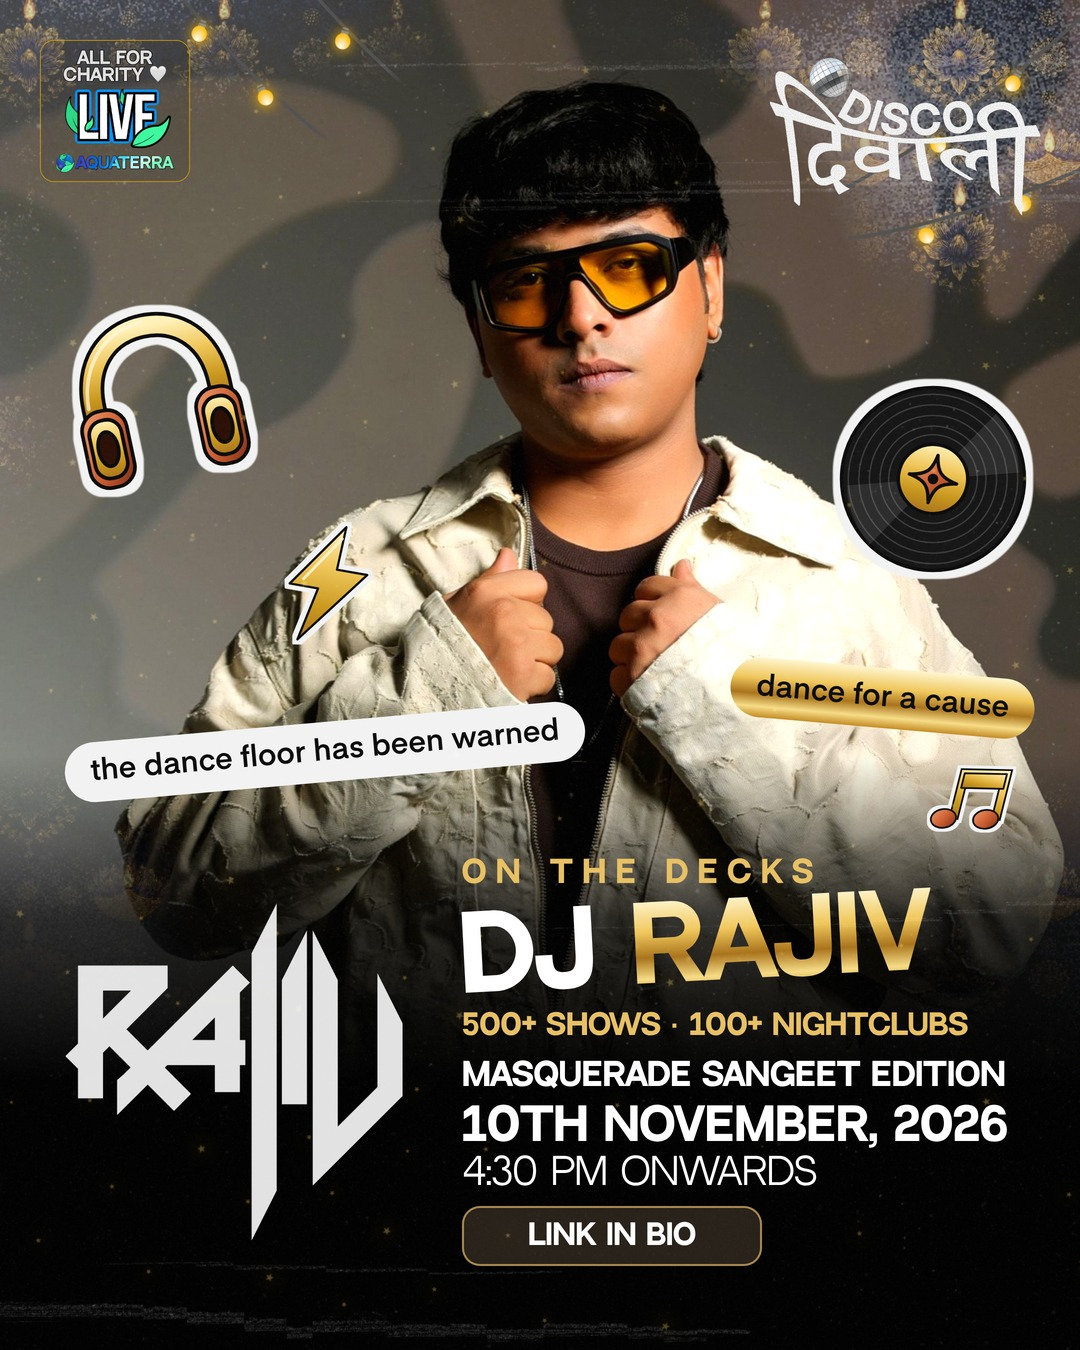
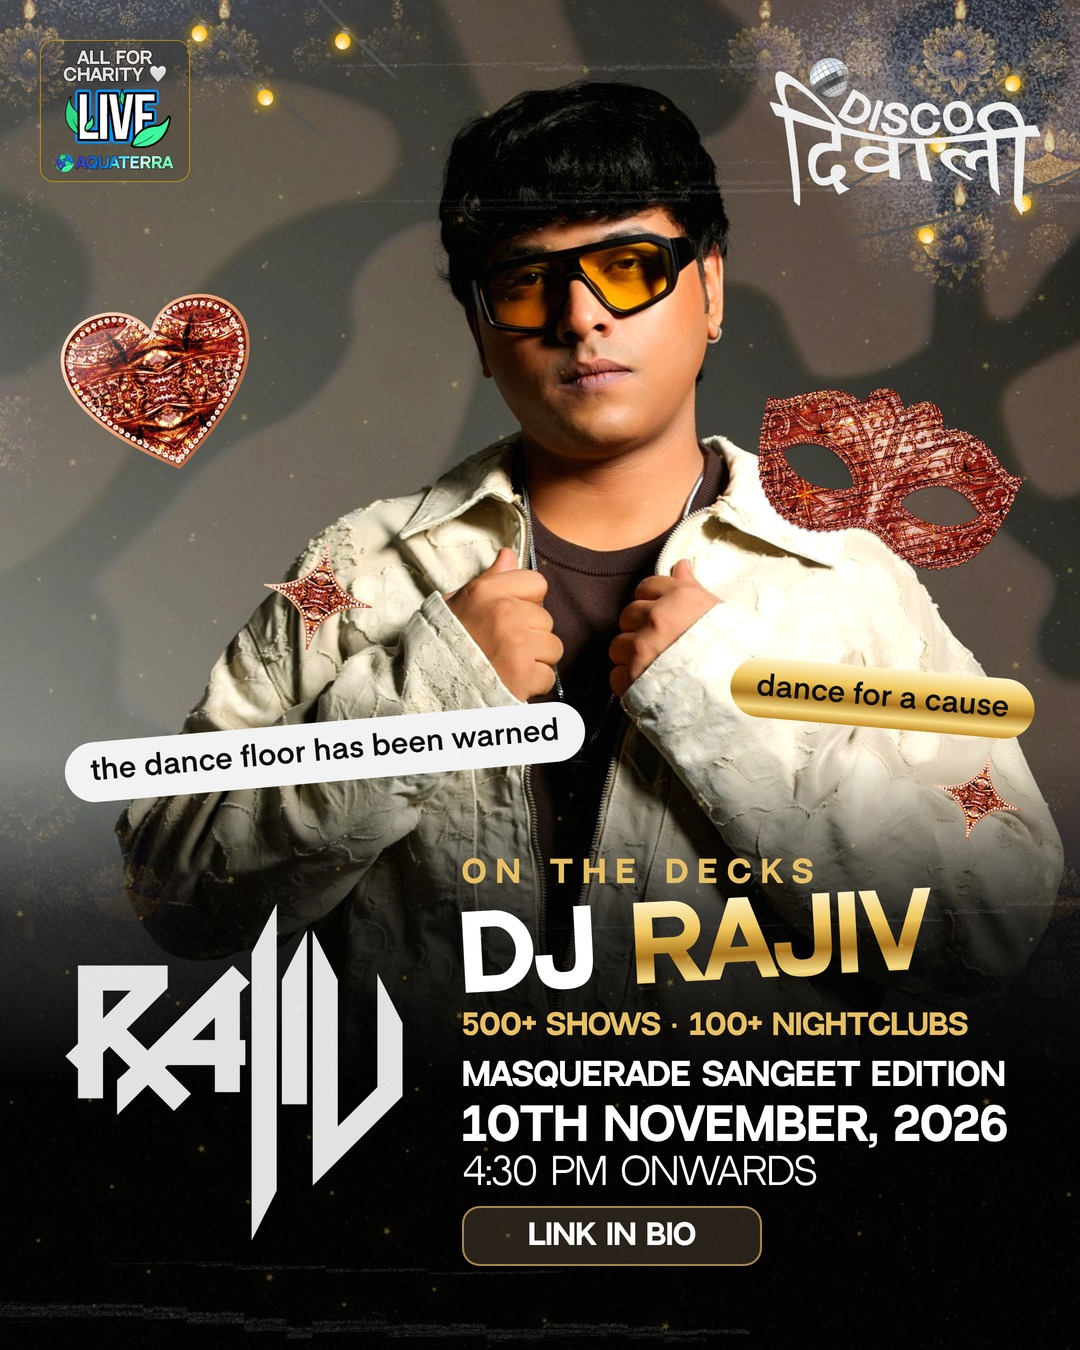
DJ Rajiv poster: red copper textured stickers (heart, sparkle stars, copper mask)
Copper set is the default again, plus the photographed copper mask as a tilted sticker.
Self-drawn DJ set kept behind STICKERS=own.

Claude-Session: https://claude.ai/code/session_015kc4KVAVHAeNHn96CgGETW

diff --git a/scratchpad/dd_dj_rajiv.py b/scratchpad/dd_dj_rajiv.py
@@ -94,10 +94,16 @@ def build():
     if FUN:
         # stickers, NO drop shadow (user, 2026-10-23: "remove the shadow and shade"), tilted, in the free wall either side of his head.
         # Default: the DJ set drawn for this poster (dd_dj_stickers.py, user: "make your own stickers and use them"). STICKERS=copper restores the earlier copper stars and heart.
-        if os.environ.get("STICKERS", "own") == "copper":
+        if os.environ.get("STICKERS", "copper") == "copper":
+            # user, 2026-10-23: "i want the red textured branded stickers like the mask, sparkle and heart": the copper set is the default again, now WITH the photographed copper mask as a sticker
             import dd_copper as cp
-            spec = (("star1", cp.star, 70, 300, 170, -12, 170), ("heart", cp.heart, 836, 396, 196, 12, 176), ("star2", cp.star, 930, 770, 92, 16, 92))
+            spec = (("heart", cp.heart, 60, 296, 206, -12, 186), ("star1", cp.star, 262, 540, 112, 12, 112), ("star2", cp.star, 932, 752, 92, 16, 92))
             mk = lambda fn, size, rot, tag: fn(size, rot, u=tag, shadow=False)
+            k = .19                                    # the asset is 1680x1278 with a transparent margin: visible outline starts at (157,211) and spans 1405x918
+            vx, vy = 756, 388                          # where its VISIBLE top-left lands (right wall, clear of his ear at x~720)
+            P.append(f'<img data-tag="mask" src="{dd.uri("mask_copper.png")}" style="position:absolute;left:{round(vx - 157 * k)}px;top:{round(vy - 211 * k)}px;width:{round(1680 * k)}px;'
+                     f'z-index:15;transform:rotate(8deg)">')
+            els.append(("mask", vx - 8, vy - 20, 308, 224))                                   # visible 267x174 at 8 degrees (layout.rotated_bbox), with a little air
         else:
             import dd_dj_stickers as st
             spec = (("headphones", st.headphones, 52, 292, 210, -12, 210), ("bolt", st.bolt, 262, 520, 128, 10, 128),

diff --git a/brain/DISCO_DIWALI.md b/brain/DISCO_DIWALI.md
@@ -132,3 +132,5 @@ Feed 1080x1350 from the user's reference (a "know your artist" poster: giant nam
 **Fun pass (user, 2026-10-23: "make the poster fun and engaging"), `FUN=1` default, `FUN=0` reproduces the calm v3 (`dj_rajiv_feed_calm.jpg`).** Added: string lights, three shadowless copper stickers (two four-point stars, a heart for the charity link) tilted into the free wall beside his head, two lowercase tilted chips ("the dance floor has been warned", "dance for a cause"; VOICE.md allows 2 chips for events/general followers; both rest only on supplied facts), DJ in white and RAJIV in gold foil, the name tilted -3 degrees. Lessons (PROVEN): a string-light PNG sags across a centred head and puts bulbs on the sunglasses, so mask it with a transparent ellipse over the head; CSS mask percentages resolve against the masked ELEMENT's box (1045x346 for the lights), not the canvas, so the first mask silently missed (use px in the element's own space). The `copper` stickers take `shadow=False`; keep it off wherever the user has asked for no shadow.
 
 **Own stickers (user, 2026-10-23: "make your own stickers and use them") — `scratchpad/dd_dj_stickers.py`, PNGs in `sample_outputs/disco_diwali_dj_stickers/`.** A DJ set drawn for this format: headphones, vinyl record, music notes, lightning bolt, equalizer (the poster uses the first four; the equalizer is spare). Flat gold and copper art, 7px ink outline, a die-cut off-white border grown from the art's own alpha with `feMorphology dilate`, no drop shadow. `STICKERS=copper` on `dd_dj_rajiv.py` restores the earlier copper stars and heart. Lessons (PROVEN): a highlight stroke placed a few units inside a band floats in the hollow and reads as a grey SHADOW, so check a highlight's coordinates against the band's real edges; a die-cut border needs room INSIDE the svg box (a full-size vinyl clipped it, so the art is scaled .9); a stray offset outline reads as misregistration, leave it out. Declare every sticker as `(label, x, y, size, size)`; the gate caught the notes sticker clipping the eyebrow's declared box.
+
+**Stickers decision (user, 2026-10-23: "i want the red textured branded stickers like the mask, sparkle and heart").** The copper set is the DEFAULT again on the DJ poster (`STICKERS=copper`): the copper heart, two copper sparkle stars and the photographed `mask_copper.png` as a tilted sticker (8 degrees, no shadow), the mask on the right wall clear of his ear and the heart and a star on the left. The self-drawn gold DJ set (`dd_dj_stickers.py`, `STICKERS=own`) stays in the repo and in `sample_outputs/disco_diwali_dj_stickers/`, but the user prefers the branded copper surface. Rule of thumb for this format: the mask's own texture IS the brand, so new stickers borrow it (dd_copper) rather than imitate it with flat vectors.
